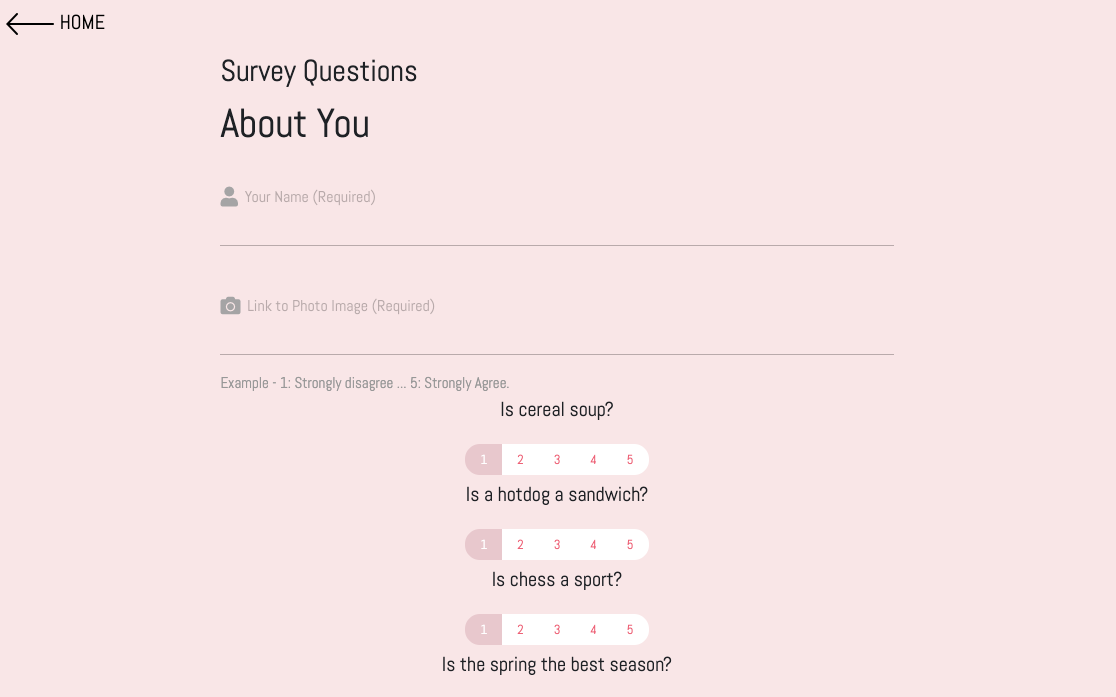
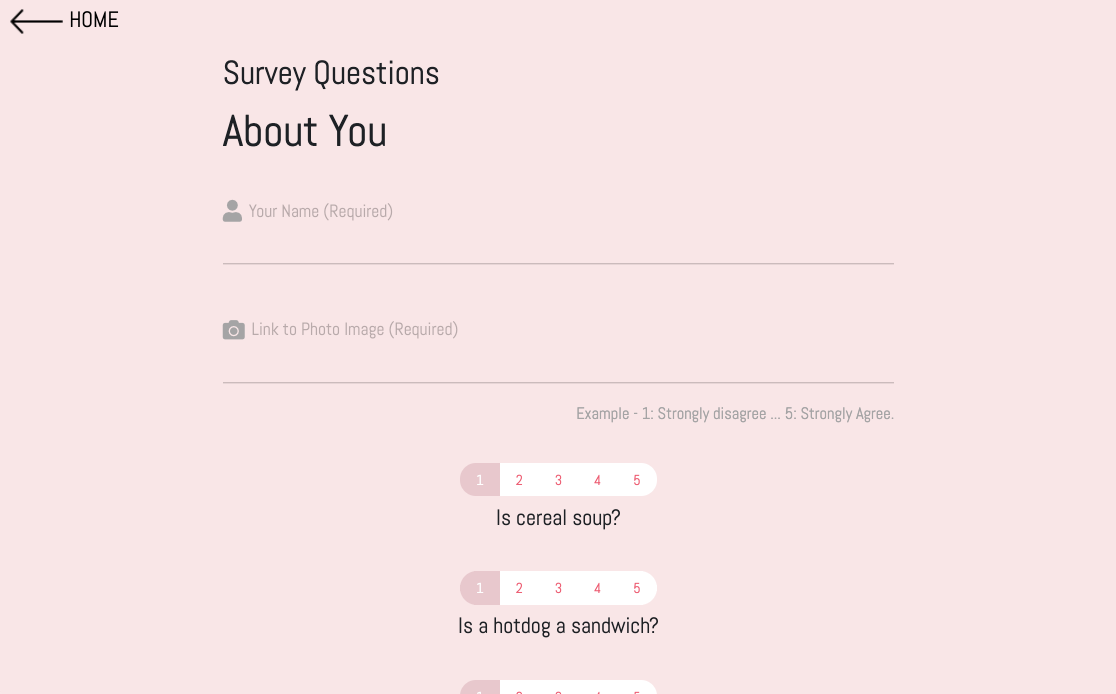
updated readme images

diff --git a/app/public/style.css b/app/public/style.css
@@ -57,7 +57,7 @@ p{
 }
 .scale{
     font-size: 15px;
-    color: #ef6b80;
+    color: #aeaeae;
     text-align: right;
 }
 
